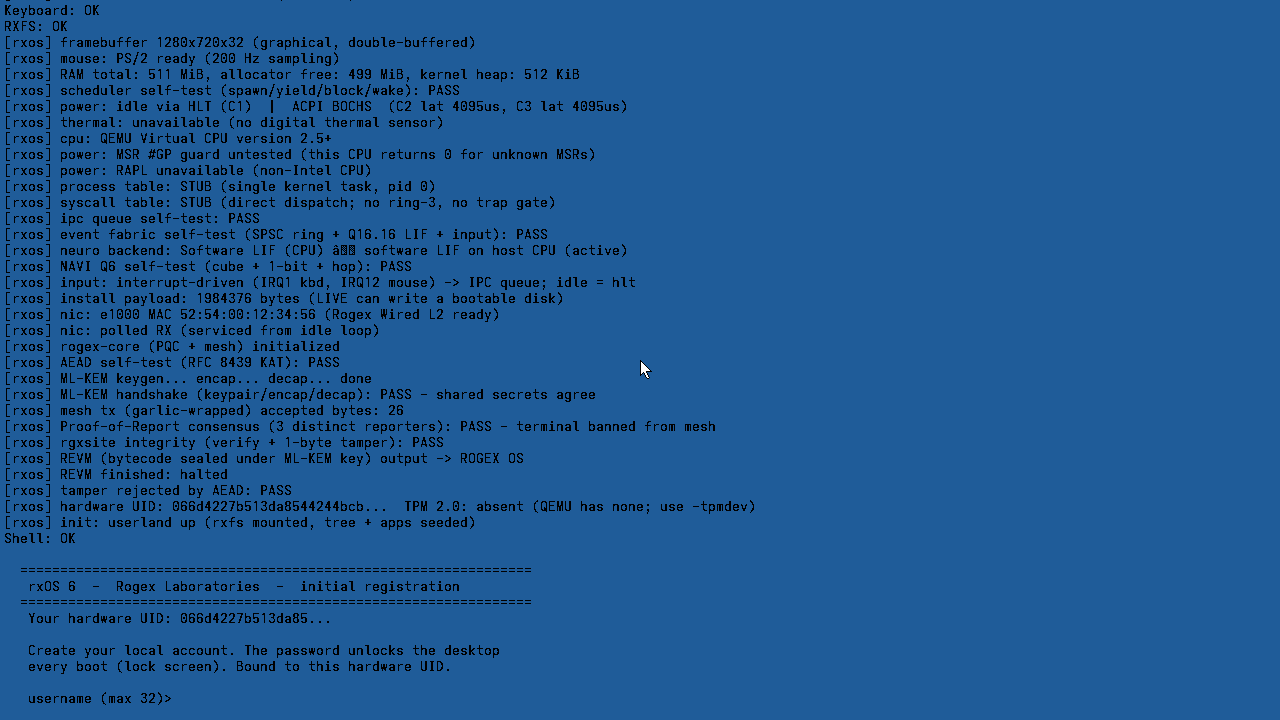
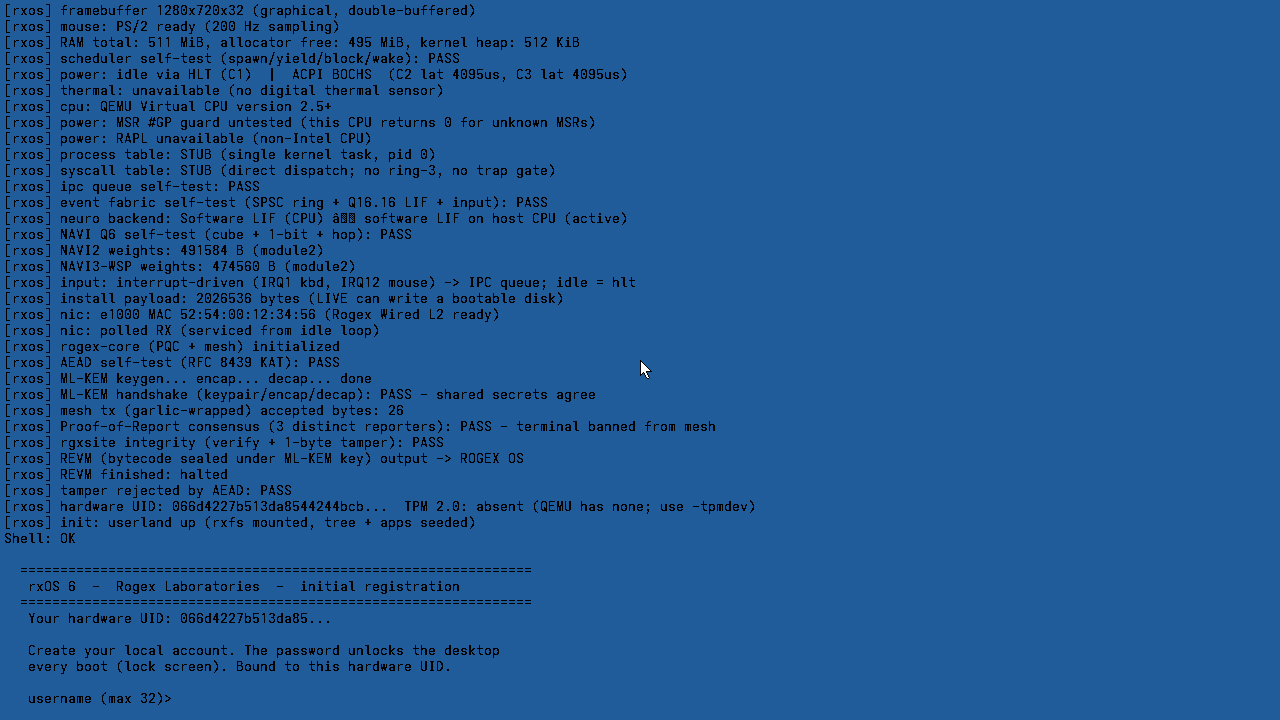
feat(web): NAVI-3 WSP demo — real QEMU chat shot
Slideshow, /rx-os gallery and docs now show the captured Aero chat:
SOLEDAD→CONEXION and hola→RESPONDER. Architecture doc in the viewer.

Changed region(s): [[0.0, 0.0, 0.4688, 0.4278]]

diff --git a/src/main.jsx b/src/main.jsx
@@ -134,7 +134,7 @@ const DOWNLOAD_CATALOG = {
     name: 'rxOS 7 MONAD',
     version: 'v7.0.0',
     platform: 'x86_64 ISO (QEMU / bare-metal)',
-    status: 'VM + METAL · NAVI 2',
+    status: 'VM + METAL · NAVI-3 WSP'
     release: 'https://github.com/knightslabs/RXos-Packages/releases/tag/v7.0.0',
     zip: 'https://github.com/knightslabs/RXos-Packages/releases/download/v7.0.0/ISOS.zip',
     vmIso: 'https://github.com/knightslabs/RXos-Packages/releases/download/v7.0.0/rxOS-7.0.0-vm.iso',
@@ -163,9 +163,9 @@ const PRODUCT_SUITE = [
     code: 'RX-01',
     name: 'rxOS 7 MONAD',
     tier: 'OPEN CORE · BOOTABLE x86-64',
-    status: 'v7.0.0 · NAVI 2 + RAG',
-    text: 'Unikernel bare-metal: escritorio Aero, NAVI 2 (chat texto plano), pesos en module2, RAG HTTP→HDC. Drivers virtio / e1000 / r8169 / rtl8139. Verificado en QEMU y HP 15-ac195nl.',
-    tags: ['MONAD', 'NAVI 2', 'module2 weights', 'e1000'],
+    status: 'v7.0.0 · NAVI-3 WSP',
+    text: 'Unikernel bare-metal: escritorio Aero, NAVI-3 (paquetes WSP 16 B + máscara ES), pesos NAVI3W01 en module2, RAG HTTP→HDC. Drivers virtio / e1000 / r8169 / rtl8139. Verificado en QEMU.',
+    tags: ['MONAD', 'NAVI-3 WSP', 'module2 weights', 'e1000'],
     href: '/rx-os',
     icon: Cpu,
     tone: 'dark',
@@ -1265,12 +1265,12 @@ function Home({ navigate }) {
         <span className="kicker">KNIGHTS LABS · ROGEX</span>
         <p>
           Software EEG reproducible, kernel neuromórfico abierto y un SO que arranca.
-          Capturas reales arriba: PRISMA Engine, rxOS 7 MONAD, NAVI 2. Nada de mockups.
+          Capturas reales arriba: PRISMA Engine, rxOS 7 MONAD, NAVI-3 WSP. Nada de mockups.
         </p>
         <div className="hero-tags">
           <span>PRISMA ENGINE 0.1</span>
           <span>rxOS 7 MONAD</span>
-          <span>NAVI 2 · TEXTO PLANO</span>
+          <span>NAVI-3 · WSP 16 B</span>
           <span>virtio · e1000</span>
         </div>
       </section>
@@ -2089,11 +2089,11 @@ function RXOS({ navigate }) {
         className="rxos-hero"
         eyebrow={`${RXOS_VERSION_LABEL} / DESKTOP + L2 + WWW`}
         title={<>A LABORATORY<br />THAT BOOTS.<br />A DESKTOP THAT WORKS.</>}
-        text="rxOS 7 MONAD es un unikernel experimental: escritorio Aero, NAVI 2 (chat de texto plano), pesos en module2, RAG HTTP→HDC y WWW opcional. No es un LLM. No es silicio Akida."
+        text="rxOS 7 MONAD es un unikernel experimental: escritorio Aero, NAVI-3 (WSP nativo, máscara ES), pesos NAVI3W01 en module2, RAG HTTP→HDC y WWW opcional. No es un LLM. No es silicio Akida."
         image={RXOS_HERO_IMAGE}
       >
         <div className="hero-tags">
-          <span>v7.0.0 MONAD</span><span>NAVI 2</span><span>LIVE INSTALLER</span><span>WWW OPT-IN</span><span>e1000</span><span>GPLv3</span>
+          <span>v7.0.0 MONAD</span><span>NAVI-3 WSP</span><span>LIVE INSTALLER</span><span>WWW OPT-IN</span><span>e1000</span><span>GPLv3</span>
         </div>
         <div className="hero-cta-row" style={{ display: 'flex', flexWrap: 'wrap', gap: 10, marginTop: 18 }}>
           <a
@@ -2353,10 +2353,10 @@ function RXOS({ navigate }) {
                 </figcaption>
               </figure>
               <figure className="screenshot scientific-capture featured" data-reveal>
-                <img src="/rxos/monad/09-navi2-chat.png" alt="NAVI 2 Chat GUI on rxOS 7 MONAD" loading="lazy" />
+                <img src="/rxos/monad/10-navi3-wsp-chat.png" alt="NAVI-3 WSP chat: SOLEDAD to CONEXION on rxOS 7 MONAD" loading="lazy" />
                 <figcaption className="capture-caption">
-                  <span>NAVI 2 / CHAT</span>
-                  <div><strong>NAVI 2 CHAT</strong><p>GUI WhatsApp-mínimo. Solo texto plano. Tecla v.</p></div>
+                  <span>NAVI-3 / WSP</span>
+                  <div><strong>NAVI-3 WSP CHAT</strong><p>QEMU real. «estoy solo…» → YO→DESEAR→CONEXION. Máscara ES. Tecla v / /demo.</p></div>
                 </figcaption>
               </figure>
               <figure className="screenshot scientific-capture" data-reveal>
@@ -3812,7 +3812,7 @@ function setJsonLd(meta) {
 const DEFAULT_OG = {
   title: 'Knights Labs — Rogex Laboratories',
   description:
-    'Knights Labs: PRISMA Engine, PRISMA 5 SNN y rxOS 7 MONAD (NAVI 2, chat texto plano). Neurotech low-carbon. Experimental, no clínico.',
+    'Knights Labs: PRISMA Engine, PRISMA 5 SNN y rxOS 7 MONAD (NAVI-3 WSP). Neurotech low-carbon. Experimental, no clínico.',
   image: ogCard('home'),
   ...OG_DIM,
   imageAlt: 'Knights Labs — low-carbon neurotech',
@@ -3842,7 +3842,7 @@ const ROUTE_META = {
   '/downloads': {
     title: 'Downloads — PRISMA Engine & rxOS 7 MONAD — Knights Labs',
     description:
-      'Descargas: PRISMA Engine 0.1.0 y rxOS 7.0.0 MONAD (VM + metal). NAVI 2, e1000, SHA-256. Experimental, no clínico.',
+      'Descargas: PRISMA Engine 0.1.0 y rxOS 7.0.0 MONAD (VM + metal). NAVI-3 WSP, e1000, SHA-256. Experimental, no clínico.',
     image: ogCard('prisma'),
     ...OG_DIM,
     imageAlt: 'Knights Labs public downloads',
@@ -3851,7 +3851,7 @@ const ROUTE_META = {
   '/rx-os': {
     title: 'rxOS 7 MONAD — Knights Labs',
     description:
-      'rxOS 7 MONAD: desktop Aero, NAVI 2 (texto plano), pesos module2, RAG HTTP→HDC, virtio/e1000. Experimental.',
+      'rxOS 7 MONAD: desktop Aero, NAVI-3 WSP (paquete 16 B + máscara ES), pesos module2, RAG HTTP→HDC. Experimental.',
     image: ogCard('rx-os'),
     ...OG_DIM,
     imageAlt: 'rxOS 6 desktop — real QEMU capture',
@@ -3878,7 +3878,7 @@ const ROUTE_META = {
   '/rogexos': {
     title: 'rxOS 7 MONAD — Knights Labs',
     description:
-      'rxOS 7 MONAD: desktop Aero, NAVI 2, RAG, pesos en disco. Experimental.',
+      'rxOS 7 MONAD: desktop Aero, NAVI-3 WSP, RAG, pesos module2. Experimental.',
     image: ogCard('rx-os'),
     ...OG_DIM,
     imageAlt: 'rxOS 6 desktop — real QEMU capture',

diff --git a/index.html b/index.html
@@ -6,7 +6,7 @@
     <meta name="theme-color" content="#0b0b0a" />
     <title>Knights Labs — Rogex Laboratories</title>
     <!-- SERP snippet: title ~50–60 chars · description ~120–160 chars -->
-    <meta name="description" content="Knights Labs: PRISMA Engine, PRISMA 5 SNN y rxOS 7 MONAD (NAVI 2, chat texto plano). Neurotech low-carbon. Experimental, no clínico." />
+    <meta name="description" content="Knights Labs: PRISMA Engine, PRISMA 5 SNN y rxOS 7 MONAD (NAVI-3 WSP). Neurotech low-carbon. Experimental, no clínico." />
     <meta name="robots" content="index, follow, max-image-preview:large, max-snippet:-1, max-video-preview:-1" />
     <meta name="googlebot" content="index, follow, max-image-preview:large, max-snippet:-1, max-video-preview:-1" />
     <link rel="canonical" href="https://www.rogexlaboratories.com/" />
@@ -15,7 +15,7 @@
     <meta property="og:type" content="website" />
     <meta property="og:site_name" content="Knights Labs / Rogex Laboratories" />
     <meta property="og:title" content="Knights Labs — Rogex Laboratories" />
-    <meta property="og:description" content="PRISMA 5 SNN, rxOS 7 MONAD y NAVI 2. Capturas reales. Experimental, no clínico." />
+    <meta property="og:description" content="PRISMA 5 SNN, rxOS 7 MONAD y NAVI-3 WSP. Capturas reales. Experimental, no clínico." />
     <meta property="og:url" content="https://www.rogexlaboratories.com/" />
     <meta property="og:locale" content="es_ES" />
     <meta property="og:image" content="https://www.rogexlaboratories.com/og/home.png" />
@@ -27,7 +27,7 @@
     <!-- Twitter / X -->
     <meta name="twitter:card" content="summary_large_image" />
     <meta name="twitter:title" content="Knights Labs — Rogex Laboratories" />
-    <meta name="twitter:description" content="PRISMA 5 SNN · rxOS 7 MONAD · NAVI 2 · compute low-carbon." />
+    <meta name="twitter:description" content="PRISMA 5 SNN · rxOS 7 MONAD · NAVI-3 WSP · compute low-carbon." />
     <meta name="twitter:image" content="https://www.rogexlaboratories.com/og/home.png" />
     <meta name="twitter:image:alt" content="Knights Labs — low-carbon neurotech" />
 

diff --git a/src/docs-catalog.js b/src/docs-catalog.js
@@ -15,14 +15,14 @@ export const DOCS = [
     title: 'Tutorial rxOS 7 MONAD',
     category: 'tutorial',
     path: '/docs/rxos/tutorial-monad.md',
-    blurb: 'Arrancar la ISO, chatear con NAVI 2, RAG y cómo medir.',
+    blurb: 'Arrancar la ISO, chatear con NAVI-3 WSP, RAG y cómo medir.',
   },
   {
     id: 'user-notice',
-    title: 'Aviso NAVI 2 — qué esperar',
+    title: 'Aviso NAVI-3 — qué esperar',
     category: 'tutorial',
     path: '/docs/rxos/USER_NOTICE.md',
-    blurb: 'Solo texto plano. No es un LLM. Límites honestos.',
+    blurb: 'Habla WSP. El castellano es máscara. No es un LLM.',
   },
   {
     id: 'para-curiosos',
@@ -103,11 +103,18 @@ export const DOCS = [
     blurb: 'Dónde está el código y cómo comprobarlo.',
   },
   {
+    id: 'navi3',
+    title: 'NAVI-3 WSP — arquitectura',
+    category: 'impl',
+    path: '/docs/rxos/NAVI3_WSP_ARCHITECTURE.md',
+    blurb: 'Transductor S→S′, V=48, paquete 16 B, máscara ES.',
+  },
+  {
     id: 'navi2',
-    title: 'NAVI 2 — arquitectura',
+    title: 'NAVI 2 — arquitectura (legado ASCII)',
     category: 'impl',
     path: '/docs/rxos/NAVI2_ARCHITECTURE.md',
-    blurb: 'Pesos .bin, chat, RAG HTTP → HDC, no backprop.',
+    blurb: 'Motor de bytes legado. El chat del ISO usa NAVI-3.',
   },
   {
     id: 'kernel-navi',

diff --git a/src/Slideshow.jsx b/src/Slideshow.jsx
@@ -31,11 +31,11 @@ export const HOME_SLIDES = [
     href: '/docs/tutorial-monad',
   },
   {
-    src: '/rxos/monad/09-navi2-chat.png',
-    kicker: 'NAVI 2 CHAT',
-    title: 'WhatsApp mínimo. Texto plano.',
-    caption: 'Tecla v. Burbujas, barra, ENVIAR. Captura QEMU real.',
-    href: '/docs/navi2',
+    src: '/rxos/monad/10-navi3-wsp-chat.png',
+    kicker: 'NAVI-3 WSP',
+    title: 'SOLEDAD → CONEXION.',
+    caption: 'Tecla v. Paquete WSP 16 B + máscara ES. Captura QEMU real.',
+    href: '/docs/navi3',
   },
   {
     src: '/rxos/monad/05-navi-l2.png',
@@ -66,7 +66,7 @@ export default function Slideshow({ slides = HOME_SLIDES, onNavigate, interval =
     <section
       className="home-slideshow"
       aria-roledescription="carousel"
-      aria-label="Capturas reales — PRISMA, MONAD, NAVI 2"
+      aria-label="Capturas reales — PRISMA, MONAD, NAVI-3 WSP"
       onMouseEnter={() => setPaused(true)}
       onMouseLeave={() => setPaused(false)}
     >

diff --git a/public/docs/rxos/USER_NOTICE.md b/public/docs/rxos/USER_NOTICE.md
@@ -1,46 +1,37 @@
 ===================================================================
-                   NAVI 2 NEUROMORPHIC CHAT ENGINE
+                   NAVI-3 WSP  +  NAVI 2 (legado)
                  rxOS v7 "MONAD" Unikernel Architecture
 ===================================================================
 
 [AVISO IMPORTANTE PARA EL USUARIO]
 
 1. ARQUITECTURA TERNARIA Y CONSUMO:
-   NAVI 2 no es un modelo LLM comercial de gigabytes corriendo en GPU.
-   Es un motor neuromórfico bare-metal en C99 ejecutándose en ~480 KiB
-   de pesos + 66 KiB HDC L2. Consume menos memoria que la app de una
-   calculadora. El eslogan se afirma de ESTA capa, no de toda la ISO.
+   NAVI-3 no es un LLM. Habla paquetes RogexWSP de 16 bytes
+   (átomos + emoción int8). El castellano es una máscara.
+   ~475 KiB de pesos ternarios (NAVI3W01, module2) + 66 KiB HDC L2.
+   Cero heap para W. El eslogan se afirma de ESTA capa, no de toda la ISO.
 
 2. ENTRADA Y SALIDA ACORTADAS:
-   - Capacidad actual: procesamiento exclusivo de TEXTO PLANO.
-   - NO se admite el envío ni procesamiento de archivos, imágenes
-     o multimedia. La GUI no tiene clip, ni cámara, ni adjuntos.
-   - El dominio está acotado: estado del kernel, sintaxis C99,
-     comandos de shell y RAG asociativo (texto HTTP → L2).
+   - La GUI acepta TEXTO PLANO. Por dentro: encode → S → L3 → veto L2 → máscara.
+   - NO hay archivos, imágenes ni multimedia.
+   - El encoder in-kernel es una tabla de keywords, no un parser de español.
 
 3. ESTADO Y APRENDIZAJE:
-   - El estado de conversación (S) se mantiene entre turnos en la
-     sesión (ventana `v`, `navi2 chat`, `navi2 + texto`).
+   - S (memoria L3) se conserva entre turnos (`v`, `navi3 chat`, `navi2 +`).
    - `navi2 .` o `/clear` borra S.
-   - Los pesos W ∈ {-1,0,1} NO se reentrenan dentro de rxOS.
-     Un fetch HTTP se inyecta en memoria HDC L2 (veto), no en W.
+   - W no se reentrena en el ISO. RAG HTTP → L2, no backprop.
 
 4. QUÉ ESPERAR:
-   - Respuestas cortas (hasta 16 bytes generados por turno).
-   - Un run de entrenamiento corto deja un generador real y a menudo
-     ruidoso. Más `train.py --steps` + `make iso-refresh` lo mejora.
-   - L2 puede sustituir un carácter si el prototipo HDC gana (veto).
-   - Internet requiere `www on` y un NIC (virtio / e1000 / r8169 /
-     rtl8139). HTTPS sin TLS completo: usa `http://` para RAG.
+   - Respuesta = una línea ES + forma compacta YO -> DESEAR -> CONEXION | E[…].
+   - L2 puede sustituir átomos si el paquete de L3 es incoherente (sim < 640).
+   - `/demo` reproduce el par canónico SOLEDAD → CONEXION.
+   - F12 / `capture` guarda un BMP 48×27 (límite RXFS 4 KiB/fichero).
 
-5. CÓMO MEDIR (benchmark):
-   - En el OS: `navi2 bench`  o  `/bench` en el chat.
-     Reporta ciclos `rdtsc` min/med/max por token, footprint L2+W,
-     vetos, docs RAG y ms del último fetch.
-   - En el host: `cd NAVI_AI_SNN && make l2-bench`.
-   - Humo ISO: `make test` (incluye `NAVI2 weights: … (module2)`).
+5. CÓMO MEDIR:
+   - `navi3 bench` o `/bench`: rdtsc por paquete, heap 0, % corrección HDC.
+   - Arquitectura: docs/NAVI3_WSP_ARCHITECTURE.md
+   - Host: python3 NAVI_AI_SNN/l3/train_wsp.py && make iso-refresh
 
-GUI: tecla `v` / icono NAVI2 / Start. Barra de texto + ENVIAR.
-Shell: `navi2 chat`  luego mensajes; `navi2 fetch URL`; `navi2 bench`.
+GUI: tecla `v`. Shell: `navi3` / `navi2` (alias). RAG: `navi2 fetch URL`.
 
 ===================================================================

diff --git a/public/docs/rxos/NAVI3_WSP_ARCHITECTURE.md b/public/docs/rxos/NAVI3_WSP_ARCHITECTURE.md
@@ -1,0 +1,81 @@
+# NAVI-3-SNN-WSP — arquitectura
+
+NAVI-3 no predice castellano. Habla **paquetes RogexWSP de 16 bytes**.
+El texto humano es una **máscara de renderizado**.
+
+```text
+ES  →  wsp_encode_es  →  S_in  →  L3 (ternario, Wk usada)  →  S_out
+                                              ↓
+                                    L2 HDC veto (átomos)
+                                              ↓
+                                    wsp_mask_es  →  GUI / shell
+```
+
+## Implementado
+
+| Pieza | Dónde | Estado |
+|---|---|---|
+| Contrato 16 B `wsp_packet_t` | `kernel/include/wsp.h` | sí |
+| Encoder ES (keywords, no parser) | `kernel/navi/wsp.c` | sí |
+| Máscara ES + compacto | `wsp_mask_es` | sí |
+| L3 V=48 D=256 L=7, `Wk` condiciona S | `navi3_fwd.c` | sí |
+| Bind `NAVI3W01` module2, 0 heap | `navi3_fwd_bind` | sí |
+| Veto L2: reglas G + `hdc_sim` | `navi3_l2.c` | sí |
+| Trainer QAT | `NAVI_AI_SNN/l3/train_wsp.py` | sí |
+| Bench `rdtsc` / heap 0 / HDC % | `navi3 bench` / `/bench` | sí |
+| Chat Aero tecla `v` | `ui/window.c` | sí (`/demo`) |
+| Captura F12 / `capture` | existente, 48×27 BMP RXFS | sí |
+
+No hay `userland/apps/navi3_chat_gui.c`: el escritorio Aero es **in-kernel** (`ui/window.c`). Inventar una app de userland no arrancaría.
+
+## Paquete
+
+```c
+src_atom, rel_atom, dst_atom, time_space   /* 4 × uint8, 0..47 */
+e_v, e_a, e_d, e_c, e_u, e_b               /* int8 −100..+100 */
+flags, pad[5]                              /* 16 B exactos */
+```
+
+Ejes oficiales WSP (SPEC): valence, arousal, dominance, certainty, urgency, bond.
+
+Átomos 0–31 = primitivos SPEC. 32–39 = AMOR, SOLEDAD, COMUNICAR, CONEXION, PELIGRO, BIENVENIDA, CONCIENCIA, WIRED. 40–43 = NONE, UNK, HELP, PAD.
+
+## Motor
+
+`Wk` ya no se descarta. Escribe en `S` solo si `k[i] > 0`; `Wr` sigue siendo el gate de lectura. Entero, leak 7:1, clamp ±32.
+
+Un turno = 4 embeddings (ranuras de `S_in`) + inyección de `E/8` en `x[0..5]` + 4 cabezas `V×D` + 1 cabeza emocional `6×D`.
+
+## Veto L2 (honesto)
+
+L2 **no corrige letras**. Compara el paquete de L3 con el paquete esperado por reglas G (p. ej. `SOLEDAD → DESEAR/CONEXION`). Si `hdc_sim < 640`, sustituye átomos y `E`. Un modelo poco entrenado será vetado a menudo: eso es correcto, no un fallo oculto.
+
+## Pesos
+
+```
+python3 NAVI_AI_SNN/l3/train_wsp.py --steps 40
+make iso-refresh
+```
+
+Cabecera `NAVI3W01`, payload 474 496 B, total 474 560 B. GRUB: `module2 /boot/navi3_weights.bin navi3`. El heap del kernel **no** aloja el blob.
+
+NAVI 2 (`NAVI2W01`, V=256) sigue en la ISO para RAG/legado. El chat usa NAVI-3 si el módulo cargó.
+
+## Límites (no son bugs)
+
+- El encoder in-kernel es una tabla de keywords ASCII. No entiende español libre.
+- L3 sin `--steps` serios no generaliza; G cubre los pares canónicos.
+- La máscara ES es un conjunto finito de plantillas + forma compacta.
+- BMP de captura sigue siendo 48×27 (RXFS 4 KiB/fichero).
+- Cero FPU, cero backprop in-kernel, RAG ≠ retrain.
+
+## Demo canónica
+
+```
+Usuario:  estoy solo y necesito ayuda
+S_in:     YO → SER → SOLEDAD @AHORA | E[V-60 A-40 B-50]
+S_out:    YO → DESEAR → CONEXION @AHORA | E[V+50 A+30 B+40]
+Máscara:  Procesando estado... Buscando canal de conexion. | YO -> DESEAR -> CONEXION ...
+```
+
+En el chat: `/demo`. Luego F12. Shell: `navi3 bench`.

diff --git a/public/docs/rxos/tutorial-monad.md b/public/docs/rxos/tutorial-monad.md
@@ -62,6 +62,7 @@ En el log de arranque debe aparecer:
 ```
 [rxos] NAVI Q6 self-test (cube + 1-bit + hop): PASS
 [rxos] NAVI2 weights: 491584 B (module2)
+[rxos] NAVI3-WSP weights: 474560 B (module2)
 ```
 
 Si no ves `module2`, el `.bin` no cargó. La ISO oficial sí lo incluye.
@@ -73,7 +74,7 @@ Si no ves `module2`, el `.bin` no cargó. La ISO oficial sí lo incluye.
 1. Registro (usuario + contraseña) si es LIVE.
 2. Escritorio Aero: iconos, taskbar, reloj.
 3. Tecla **`t`** — terminal.
-4. Tecla **`v`** — **NAVI 2 Chat** (burbujas, barra, ENVIAR).
+4. Tecla **`v`** — **NAVI-3 Chat** (WSP + máscara ES). `/demo` prueba SOLEDAD.
 5. `F12` o `capture` — miniatura en `/screenshots`.
 
 Comandos útiles:
@@ -91,22 +92,18 @@ www on
 
 ---
 
-## 5. Cómo chatear con NAVI 2
+## 5. Cómo chatear con NAVI-3 (WSP)
 
-Solo **texto plano**. Sin archivos, sin imágenes.
+El chat habla **paquetes WSP**. El castellano es máscara. Ver [`NAVI3_WSP_ARCHITECTURE.md`](NAVI3_WSP_ARCHITECTURE.md).
 
 | Dónde | Cómo |
 | --- | --- |
 | GUI | tecla `v` · escribe · Enter o ENVIAR |
-| Shell | `navi2 chat` luego `navi2 tu mensaje` |
-| Un turno con memoria | `navi2 + sigue el hilo` |
-| Borrar S | `navi2 .` o `/clear` en el chat |
+| Demo | `/demo` → «estoy solo y necesito ayuda» |
+| Shell | `navi3 chat` luego `navi3 tu mensaje` (`navi2` es alias) |
+| Borrar S | `navi3 .` o `/clear` |
 
-Atajos en la ventana:
-
-- `/www` — activa la pila de red
-- `/fetch http://…` — RAG (texto HTTP → HDC L2)
-- `/bench` — ciclos `rdtsc` por token
+Atajos: `/bench` (rdtsc/paquete), `/fetch`, `/www`, F12 captura.
 - `/help` — aviso
 
 Lee el aviso: [USER_NOTICE.md](USER_NOTICE.md).

diff --git a/public/docs/rxos/NAVI2_ARCHITECTURE.md b/public/docs/rxos/NAVI2_ARCHITECTURE.md
@@ -1,5 +1,9 @@
 # NAVI 2 — arquitectura (rxOS 7 MONAD)
 
+El chat del ISO (tecla `v`) usa **NAVI-3 WSP** cuando carga `NAVI3W01`.
+Este documento describe el motor ASCII legado. El transductor actual:
+[`NAVI3_WSP_ARCHITECTURE.md`](NAVI3_WSP_ARCHITECTURE.md).
+
 **Autor:** r. navarro
 
 ## 1. Técnica
